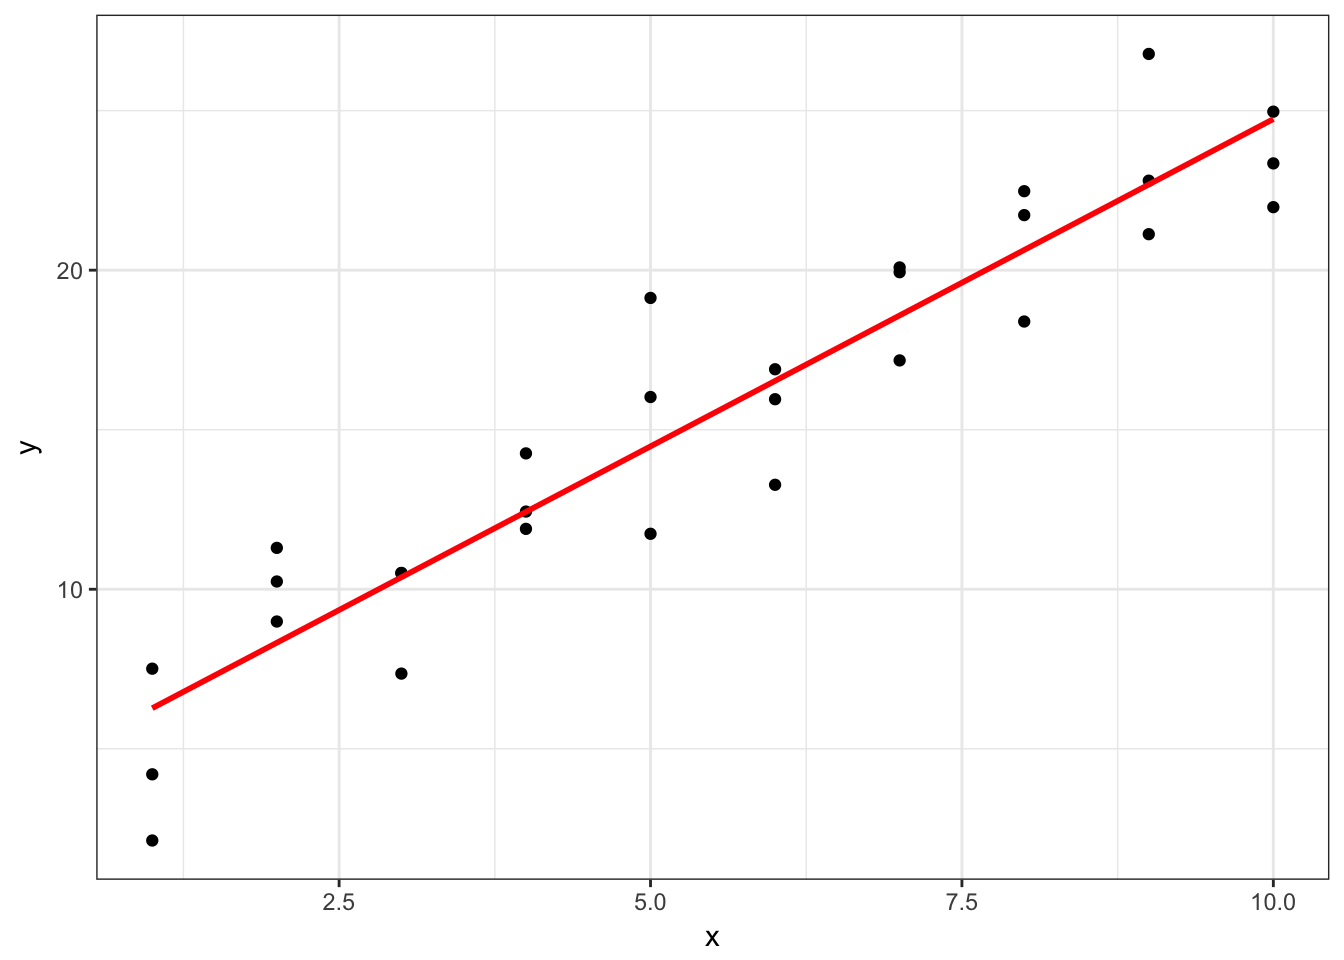
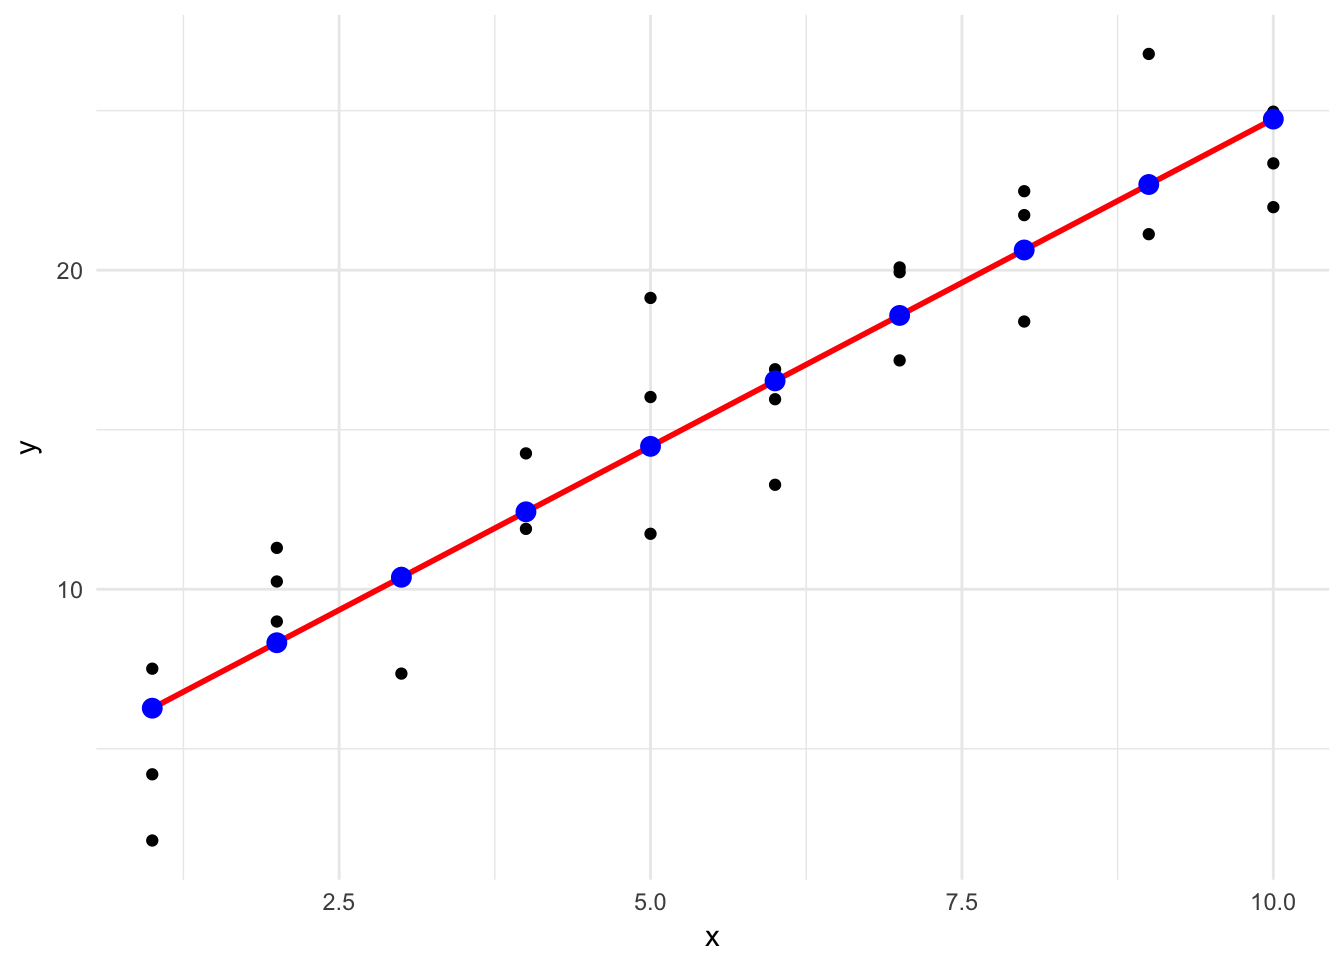
Fix typos in stat002

diff --git a/stat002_linear_models.html b/stat002_linear_models.html
@@ -344,8 +344,8 @@ div.tocify {
 <span class="kw">set.seed</span>(<span class="dv">1234</span>)
 
 <span class="kw">theme_set</span>(<span class="kw">theme_minimal</span>())</code></pre></div>
-<div id="linear-models-using-ggplot" class="section level1">
-<h1>Linear models using <code>ggplot</code></h1>
+<div id="linear-models-using-ggplot2" class="section level1">
+<h1>Linear models using <code>ggplot2</code></h1>
 <p>Linear models are the simplest to understand. They adopt a generic form</p>
 <p><span class="math display">\[y = \beta_0 + \beta_1 * x\]</span></p>
 <p>where <span class="math inline">\(y\)</span> is the <strong>outcome of interest</strong>, <span class="math inline">\(x\)</span> is the <strong>explanatory</strong> or <strong>predictor</strong> variable, and <span class="math inline">\(\beta_0\)</span> and <span class="math inline">\(\beta_1\)</span> are <strong>parameters</strong> that vary to capture different patterns. Given the empirical values you have for <span class="math inline">\(x\)</span> and <span class="math inline">\(y\)</span>, you generate a <strong>fitted model</strong> that finds the values for the parameters that best fit the data.</p>
@@ -479,7 +479,8 @@ grid</code></pre></div>
 <p>Using this information, we can draw the best-fit line without using <code>geom_smooth()</code>, and instead build it directly from the predicted values.</p>
 <div class="sourceCode"><pre class="sourceCode r"><code class="sourceCode r"><span class="kw">ggplot</span>(sim1, <span class="kw">aes</span>(x)) <span class="op">+</span>
 <span class="st">  </span><span class="kw">geom_point</span>(<span class="kw">aes</span>(<span class="dt">y =</span> y)) <span class="op">+</span>
-<span class="st">  </span><span class="kw">geom_line</span>(<span class="kw">aes</span>(<span class="dt">y =</span> pred), <span class="dt">data =</span> grid, <span class="dt">color =</span> <span class="st">&quot;red&quot;</span>, <span class="dt">size =</span> <span class="dv">1</span>)</code></pre></div>
+<span class="st">  </span><span class="kw">geom_line</span>(<span class="kw">aes</span>(<span class="dt">y =</span> pred), <span class="dt">data =</span> grid, <span class="dt">color =</span> <span class="st">&quot;red&quot;</span>, <span class="dt">size =</span> <span class="dv">1</span>) <span class="op">+</span>
+<span class="st">  </span><span class="kw">geom_point</span>(<span class="kw">aes</span>(<span class="dt">y =</span> pred), <span class="dt">data =</span> grid, <span class="dt">color =</span> <span class="st">&quot;blue&quot;</span>, <span class="dt">size =</span> <span class="dv">3</span>)</code></pre></div>
 <p><img src="stat002_linear_models_files/figure-html/plot-lm-predict-1.png" width="672" /></p>
 <p>This looks like the line from before, but without the confidence interval. This is a bit more involved of a process, but it can work with any type of model you create - not just very basic, linear models.</p>
 </div>
@@ -958,7 +959,7 @@ by_type <span class="op">%&gt;%</span>
 ##  language (EN)                        
 ##  collate  en_US.UTF-8                 
 ##  tz       America/Chicago             
-##  date     2017-10-24                  
+##  date     2017-10-26                  
 ## 
 ##  package    * version    date       source                              
 ##  assertthat   0.2.0      2017-04-11 CRAN (R 3.4.0)                      
@@ -994,6 +995,7 @@ by_type <span class="op">%&gt;%</span>
 ##  httr         1.3.1      2017-08-20 CRAN (R 3.4.1)                      
 ##  jsonlite     1.5        2017-06-01 CRAN (R 3.4.0)                      
 ##  knitr        1.17       2017-08-10 cran (@1.17)                        
+##  labeling     0.3        2014-08-23 CRAN (R 3.4.0)                      
 ##  lattice      0.20-35    2017-03-25 CRAN (R 3.4.1)                      
 ##  lazyeval     0.2.0      2016-06-12 CRAN (R 3.4.0)                      
 ##  lubridate    1.6.0      2016-09-13 CRAN (R 3.4.0)                      
@@ -1026,7 +1028,6 @@ by_type <span class="op">%&gt;%</span>
 ##  stringr    * 1.2.0      2017-02-18 CRAN (R 3.4.0)                      
 ##  tibble     * 1.3.4      2017-08-22 CRAN (R 3.4.1)                      
 ##  tidyr      * 0.7.0      2017-08-16 CRAN (R 3.4.1)                      
-##  tidyselect   0.1.1      2017-07-24 CRAN (R 3.4.1)                      
 ##  tidyverse  * 1.1.1.9000 2017-07-19 Github (tidyverse/tidyverse@a028619)
 ##  tools        3.4.1      2017-07-07 local                               
 ##  utils      * 3.4.1      2017-07-07 local                               
